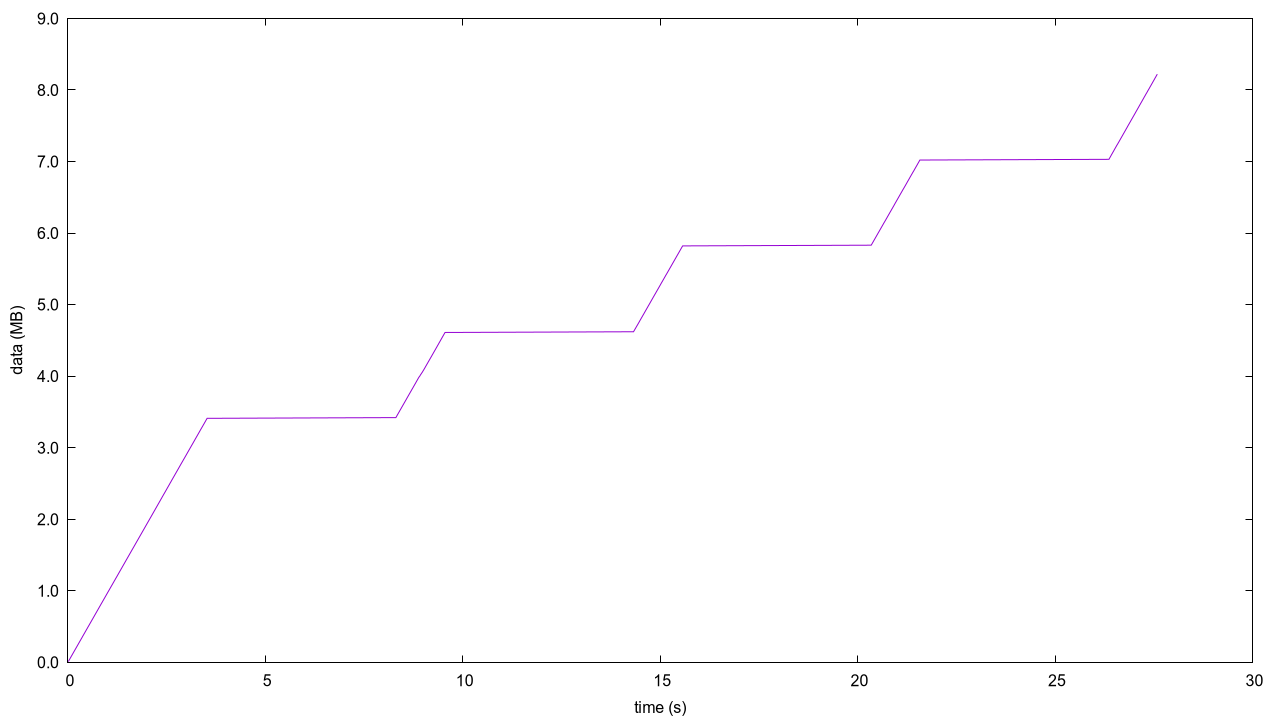
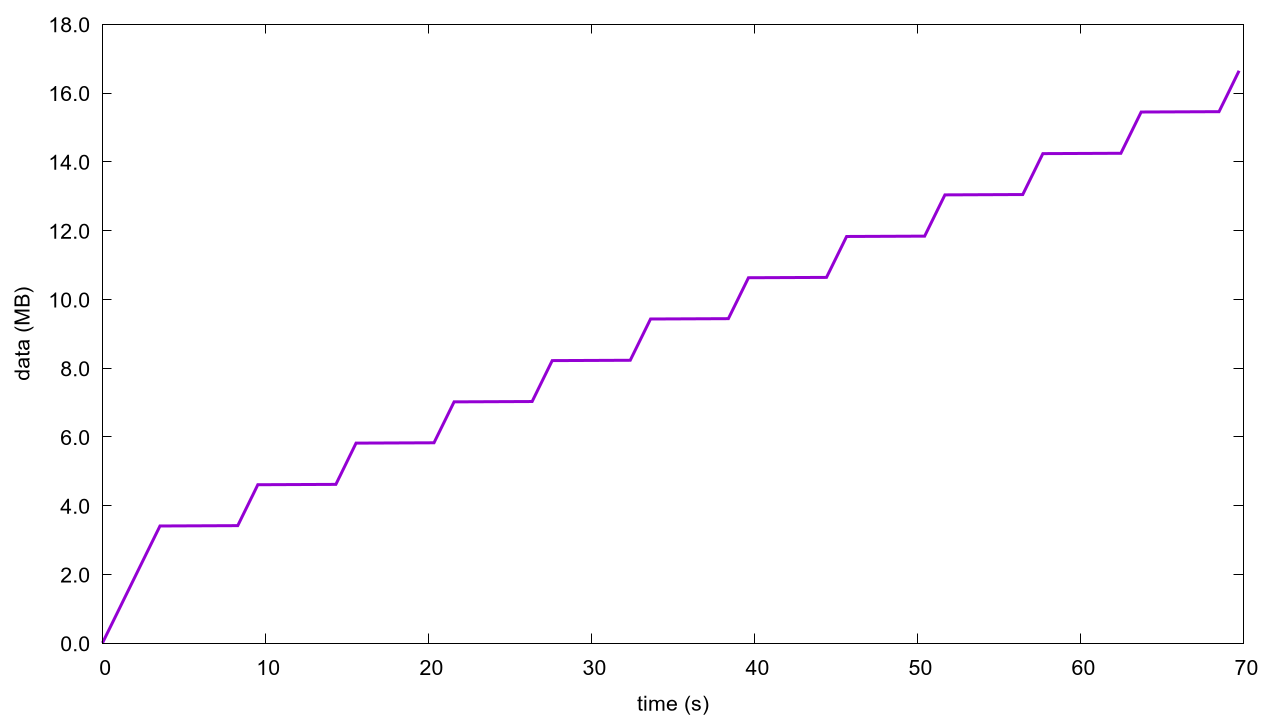
flow control metrics

diff --git a/flow-control/README.md b/flow-control/README.md
@@ -1,12 +1,22 @@
-Playing with TCP flow control
------------------------------
+Probando el control de flujo de TCP
+-----------------------------------
 
-- `server.py` is a receiver limiting input rate.
-- `client.py` sends as fast as possible.
-- `lazy-server.py` waits for the user to press a key before receiving some data, then pauses again.
+- `server.py` es un receptor que limita la tasa de llegada.
+- `client.py` envía tan rápido como puede.
+- `lazy-server.py` espera a que el usuario pulse una tecla antes de enviar algunos datos, después vuelve a pasar.
 
-You may observe that the client stops sending when the buffers are full and resumes once there is free space.
+Ejecuta estos comando en terminales diferentes:
 
-Run this command to view socket variables:
+- ./server.py 2000 200          # 2000 es el puerto de escucha, 200 es la tasa límite en kbps.
+- ./client.py 127.0.0.1 2000
+
+Puedes comprobar que el cliente para el envío cuando lo buffer de envío y recepción se llenan y reanuda cuando queda espacio libre.
+
+Puedes generar gráficas con los datos enviados y la tasa de envío a partir del fichero .csv generado por el cliente:
+
+    $ gnuplot -p sent.gp
+    $ gnuplot -p rate.gp
+
+Puedes ver información sobre el socket con:
 
     $ ss -timon sport = 2000 or dport = 2000
